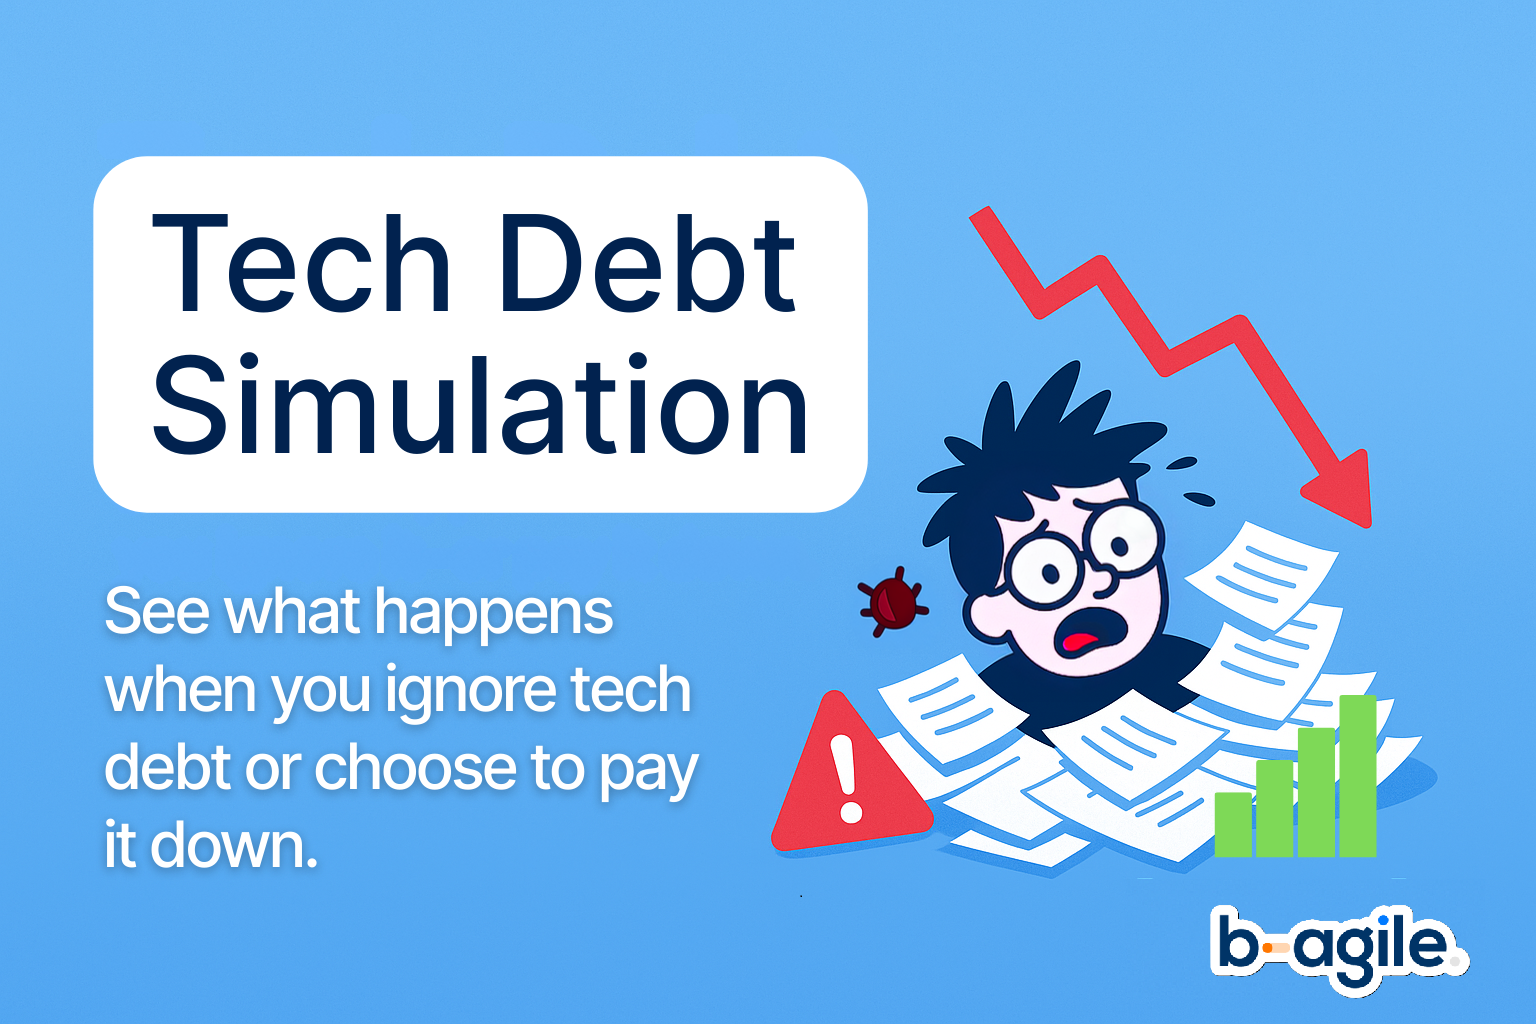
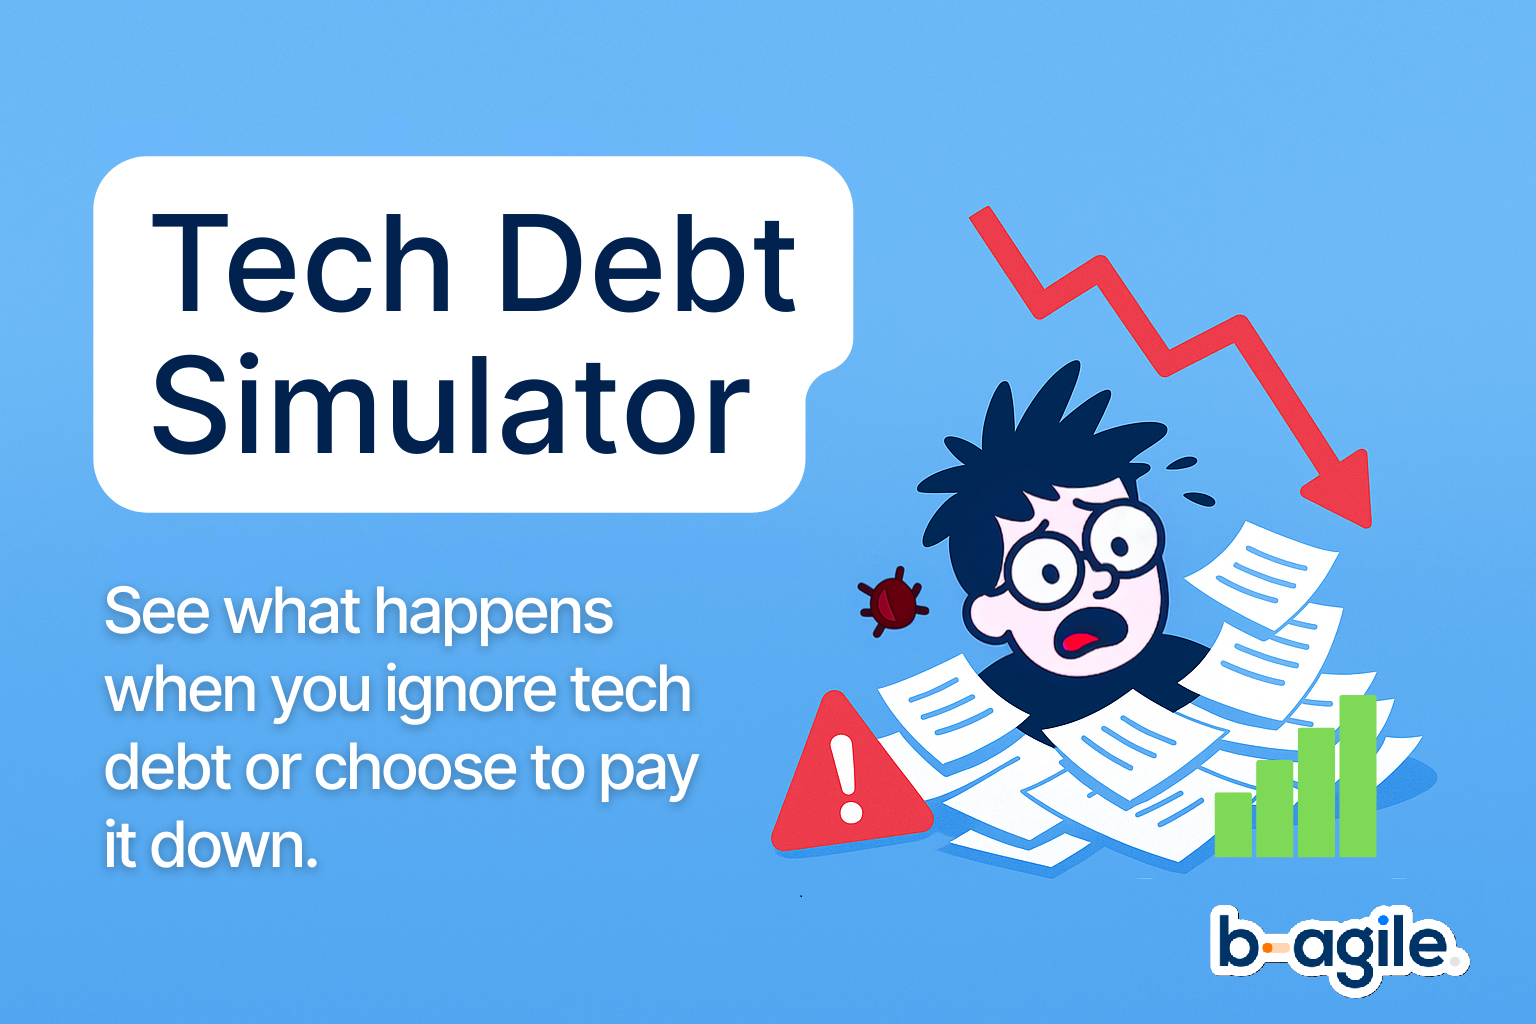
fixed naming Tech Debt Simulator

Changed region(s): [[0.4062, 0.1562, 0.5625, 0.5]]

diff --git a/public/index.html b/public/index.html
@@ -9,7 +9,7 @@
       name="description"
       content="Explore the Tech Debt simulator by Bagile. A simple tool that helps you experience how technical debt impacts delivery and trade-off decisions."
     />
-    <meta property="og:title" content="Tech Debt simulator" />
+    <meta property="og:title" content="Tech Debt Simulator" />
     <meta property="og:description" content="Learn how technical debt affects delivery. Experience the trade-offs between short-term delivery and long-term sustainability in this lightweight simulator." />
     <meta property="og:image" content="%PUBLIC_URL%/preview.png" />
     <meta property="og:url" content="https://www.bagile.co.uk/techdebt-simulator" />

diff --git a/src/components/Header.tsx b/src/components/Header.tsx
@@ -2,7 +2,7 @@ import styles from '../styles/Header.module.css';
 
 const Header = () => (
   <div className={styles.header}>
-    <h1 className={styles.title}>Tech Debt simulator Game</h1>
+    <h1 className={styles.title}>Tech Debt Simulator</h1>
     <div className={styles.subtitle}>See what happens when you ignore tech debt or pay it down.</div>
   </div>
 );
